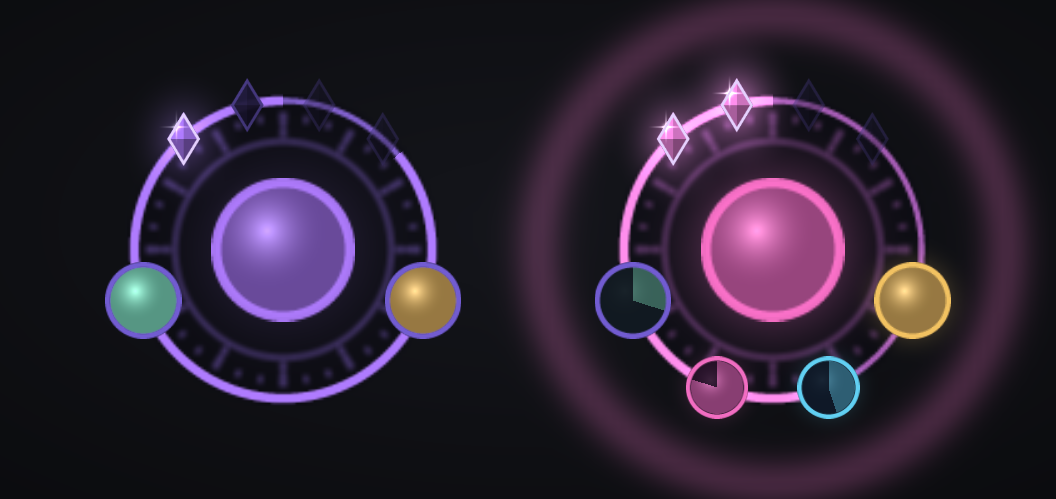
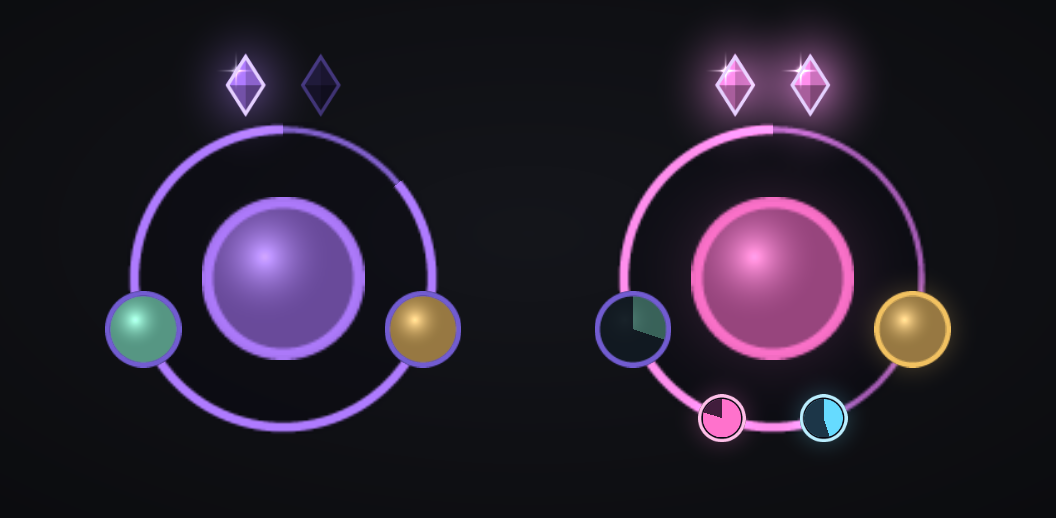
Arcanum 0.8.0 : review design du cercle
- Cristaux : un par charge visée, au-dessus du cercle ; un de plus
  quand le jeu offre une charge.
- Procs en orbes de couleur, sans icône.
- Icône centrale agrandie ; ondes plus petites et plus rares.
- Halo derrière le cercle, runes et leur réglage retirés.

diff --git a/tools/preview.py b/tools/preview.py
@@ -15,7 +15,7 @@ MEDIA = os.path.join(ROOT, "Arcanum", "Media")
 OUT = os.path.join(ROOT, "docs", "apercu.png")
 
 K = 2.4                      # échelle du rendu
-W, H = int(440 * K), int(208 * K)
+W, H = int(440 * K), int(216 * K)
 
 C = dict(
     ink=(0.030, 0.024, 0.066), socket=(0.130, 0.108, 0.240), edge=(0.470, 0.380, 0.860),
@@ -162,8 +162,8 @@ def round_icon(cx, cy, size, tint, ring, glow=0.0, cooldown=0.0):
     blit("circle-edge", cx, cy, size + 4, size + 4, ring, 0.95)
 
 
-def hud(cx, cy, stacks, target, reason, tint, window, cooldowns, procs=(), spin=0.0):
-    """Le cercle runique tel que le dispose UI/Hud.lua."""
+def hud(cx, cy, stacks, target, reason, tint, window, cooldowns, procs=()):
+    """Le cercle tel que le dispose UI/Hud.lua."""
     R = 62
     S = R / 0.465
     urgent = reason is not C["arcane"]
@@ -171,48 +171,49 @@ def hud(cx, cy, stacks, target, reason, tint, window, cooldowns, procs=(), spin=
     col = C["hot"] if full else C["arcane"]
     line = mix(C["edge"], reason, 0.55)
 
-    def on_ring(angle):
+    def on_ring(angle, radius=R):
         a = math.radians(angle)
-        return cx + R * math.cos(a), cy - R * math.sin(a)
+        return cx + radius * math.cos(a), cy - radius * math.sin(a)
 
     blit("circle", cx, cy, 2 * R + 6, 2 * R + 6, C["ink"], 0.34)
-    blit("glow", cx, cy, R * 2.1, R * 2.1, reason, 0.34 if urgent else 0.14, add=True)
-    blit("runes", cx, cy, S, S, line, 0.34, rot=-spin)
     blit("ring", cx, cy, S, S, line, 0.85)
     if stacks > 0:
         blit("arc", cx, cy, S, S, col, 1, sweep=window)
-    round_icon(cx, cy, 56, tint, reason, glow=0.42 if urgent else 0.16)
-    # charges, en haut de l'anneau
-    for i, angle in enumerate((132, 104, 76, 48)):
-        x, y = on_ring(angle)
+    round_icon(cx, cy, 64, tint, reason, glow=0.35 if urgent else 0.0)
+    # un cristal par charge visée (un de plus quand le jeu en offre une), au-dessus du cercle
+    shown = min(4, max(target, stacks))
+    for i in range(shown):
+        x, y = on_ring(90 + ((shown + 1) / 2 - (i + 1)) * 22, R + 20)
         on = i < stacks
-        aim = 1.0 if i < target else 0.35
         pulse = (0.5 + 0.5 * math.sin(i * 0.9)) if full else 0
         if on:
-            blit("glow", x, y, 18 * 3 * (1 + 0.1 * pulse), 24 * 2.6 * (1 + 0.1 * pulse), col, 0.40 + 0.32 * pulse, add=True)
-        blit("diamond", x, y, 18, 24, C["socket"], 0.95 * (1 if on else aim))
+            blit("glow", x, y, 22 * 3 * (1 + 0.1 * pulse), 28 * 2.6 * (1 + 0.1 * pulse), col, 0.40 + 0.32 * pulse, add=True)
+        blit("diamond", x, y, 22, 28, C["socket"], 0.95)
         if on:
-            blit("diamond", x, y, 18, 24, col, 1)
-            blit("spark", x - 3, y - 5, 16, 16, C["white"], 0.5 + 0.45 * pulse, add=True)
-        blit("diamond-edge", x, y, 18, 24, C["arcaneHi"] if on else C["edge"], 1 if on else 0.45 * aim)
+            blit("diamond", x, y, 22, 28, col, 1)
+            blit("spark", x - 4, y - 6, 18, 18, C["white"], 0.5 + 0.45 * pulse, add=True)
+        blit("diamond-edge", x, y, 22, 28, C["arcaneHi"] if on else C["edge"], 1 if on else 0.45)
     # gros temps de recharge, sertis à gauche et à droite
     for angle, (ctint, active, cooldown) in zip((200, 340), cooldowns):
         x, y = on_ring(angle)
         round_icon(x, y, 28, ctint, active or C["edge"], glow=0.7 if active else 0.0, cooldown=cooldown)
-    # gemmes de proc, en bas
-    for angle, (pcol, left) in zip((248, 292), procs):
+    # orbes de proc, en bas : la couleur seule
+    for angle, (pcol, left) in zip((250, 290), procs):
         if pcol:
             x, y = on_ring(angle)
-            round_icon(x, y, 22, pcol, pcol, glow=0.5, cooldown=1 - left)
+            blit("glow", x, y, 16 * 2.6, 16 * 2.6, pcol, 0.45, add=True)
+            blit("circle", x, y, 20, 20, C["ink"], 0.96)
+            blit("circle", x, y, 16, 16, pcol, 1)
+            blit("circle", x, y, 16, 16, (0.02, 0.01, 0.06), 0.76, sweep=1 - left)
+            blit("circle-edge", x, y, 20, 20, mix(pcol, C["white"], 0.55), 1)
 
 
 def main():
     background()
     # à gauche : cycle normal (Déflagration, 1 charge sur 2 visées) ; à droite : Barrage de projectiles
-    hud(118, 104, 1, 2, C["arcane"], C["arcane"], 0.86,
+    hud(118, 116, 1, 2, C["arcane"], C["arcane"], 0.86,
         [(C["pom"], None, 0.0), (C["power"], None, 0.0)])
-    blit("halo", 322, 104, 250, 250, C["barrage"], 0.22, add=True)
-    hud(322, 104, 2, 2, C["barrage"], C["barrage"], 0.55,
+    hud(322, 116, 2, 2, C["barrage"], C["barrage"], 0.55,
         [(C["pom"], None, 0.7), (C["power"], C["power"], 0.0)],
         procs=((C["barrage"], 0.8), (C["clear"], 0.45)))
 

diff --git a/tools/test/run_tests.py b/tools/test/run_tests.py
@@ -332,6 +332,8 @@ def main():
     t.M.advance(0.3)
     t.fight()
     check(t.next() == ("blast", "arcane"), "0 charge : Déflagration")
+    t.M.advance(0.2)
+    check(len([f for f in t.ns.Hud.crystals.values() if f._shown]) == 2, "2 charges visées : deux cristaux affichés, pas quatre")
     t.cast(AB)
     check(t.next() == ("blast", "arcane"), "1 charge : Déflagration")
     t.M.startCast(AB, 1.5)
@@ -394,6 +396,8 @@ def main():
     check(t.next() == ("blast", "clear"), "Idées claires : Déflagration gratuite, même au-delà des charges visées")
     t.cast(AB)
     check(t.S.stacks == 4 and t.next() == ("frostbolt", "arcane"), "charges offertes : toujours l'Éclair de givre")
+    t.M.advance(0.3)
+    check(len([f for f in t.ns.Hud.crystals.values() if f._shown]) == 4, "charges offertes : un cristal par charge")
     t.M.advance(6.0)
     check(t.next() == ("wrath", "arcane"), "Courroux de nouveau prêt : Courroux")
     t.M.advance(12)
@@ -707,12 +711,6 @@ def main():
     for key in ("showCharges", "showProcs", "showCooldowns", "showMana", "enabled", "enabled"):
         d.run('Mock.ns.Set("%s", not Mock.ns.db.%s)' % (key, key))
         d.M.advance(0.2)
-    spinners = list(d.M.spinners.values())
-    check(len(spinners) == 1 and not spinners[0].playing, "runes immobiles d'origine")
-    d.run('Mock.ns.Set("spin", true)')
-    check(spinners[0].playing, "réglage « runes qui tournent » : animation du moteur lancée")
-    d.run('Mock.ns.Set("spin", false)')
-    check(not spinners[0].playing, "réglage coupé : animation arrêtée")
     d.run('SlashCmdList.ARCANUM("diag")')
     report = d.M.named["ArcanumDiag"].text
     check("Déflagration des Arcanes" in report and "JOURNAL" in report, "/arc diag produit le rapport")

diff --git a/tools/make_media.py b/tools/make_media.py
@@ -171,8 +171,7 @@ def near(angle, count, half_width):
 
 
 def make_runic():
-    """Cercle runique : anneau, graduations runiques, bande du minuteur (découpée en arc par un widget
-    Cooldown), bord des icônes rondes.
+    """Cercle : anneau, bande du minuteur (découpée en arc par un widget Cooldown), bord des icônes rondes.
 
     Ces textures tournent en jeu. Elles sont donc dessinées à leur taille d'affichage (128 px pour
     133 px à l'écran) et aucun trait ne fait moins de 2 px : une texture plus grande, réduite par le jeu,
@@ -181,19 +180,6 @@ def make_runic():
     polar_tex("ring", S, lambda r, a, u, v: 0.456 <= r <= 0.474, ss=4)
     polar_tex("arc", S, lambda r, a, u, v: 0.451 <= r <= 0.479, ss=4)
     polar_tex("circle-edge", 64, lambda r, a, u, v: 0.43 <= r <= 0.5, ss=4)
-
-    def runes(r, a, u, v):
-        if 0.400 <= r <= 0.424 and near(a, 36, 0.020):      # graduations fines (2 px)
-            return True
-        if 0.380 <= r <= 0.430 and near(a, 12, 0.027):      # graduations longues (2,7 px)
-            return True
-        if 0.330 <= r <= 0.346:                             # filet intérieur (2 px)
-            return True
-        # petits losanges entre les graduations longues
-        step = 2 * math.pi / 12
-        d = ((a + math.pi + step / 2) % step) - step / 2
-        return abs(r - 0.365) / 0.020 + abs(d * r) / 0.014 <= 1
-    polar_tex("runes", S, runes, ss=4, soft=True)
 
 
 def main():

diff --git a/README.md b/README.md
@@ -1,19 +1,18 @@
 # Arcanum
 
-Le HUD du mage Arcanes pour World of Warcraft: Forever : un cercle runique qui dit quel sort lancer ensuite.
+Le HUD du mage Arcanes pour World of Warcraft: Forever : un cercle qui dit quel sort lancer ensuite.
 
-Arcanum affiche sous ton personnage un cercle runique, avec au centre le prochain sort à lancer :
+Arcanum affiche sous ton personnage un cercle, avec au centre le prochain sort à lancer :
 
 ![Aperçu du HUD d'Arcanum](docs/apercu.png)
 
 *Aperçu composé avec les textures de l'addon (les icônes de sorts sont remplacées par des aplats). À gauche le cycle normal, à droite un Barrage de projectiles. En jeu : `/arc demo`.*
 
-- **Au centre** : le sort à lancer ensuite. Sa couleur, qui gagne tout l'anneau, dit pourquoi : violet pour le cycle normal, rose pour un Barrage de projectiles, bleu clair pour des Idées claires, or pour les gros dégâts (Eureka, Présence spirituelle, Courroux instantané), bleu pour le mana (gemme, Évocation, sort moins cher, baguette). Pendant une incantation il ne change pas : il se découvre à mesure que le sort part, puis passe au suivant (une option permet au contraire d'anticiper).
-- **L'anneau** : gravé de runes discrètes, il prend la couleur du conseil. Un réglage les fait tourner lentement.
-- **En haut de l'anneau, quatre cristaux** : tes charges de Déflagration des Arcanes. Ceux des charges visées sont nets, les autres en retrait ; ils pulsent quand la cible est atteinte.
+- **Au centre** : le sort à lancer ensuite. Sa couleur, reprise par l'anneau, dit pourquoi : violet pour le cycle normal, rose pour un Barrage de projectiles, bleu clair pour des Idées claires, or pour les gros dégâts (Eureka, Présence spirituelle, Courroux instantané), bleu pour le mana (gemme, Évocation, sort moins cher, baguette), orange en multi-cibles. Pendant une incantation il ne change pas : un voile se retire à mesure que le sort part, puis il passe au suivant (une option permet au contraire d'anticiper).
+- **Au-dessus du cercle, les cristaux** : un par charge de Déflagration des Arcanes visée (deux par défaut). Ils pulsent quand la cible est atteinte ; un cristal de plus apparaît quand le jeu t'offre une charge.
 - **L'arc lumineux autour de l'anneau** : les 18 secondes de la fenêtre des charges, qui se vide.
-- **À gauche et à droite, sertis dans l'anneau** : tes gros temps de recharge (Présence spirituelle, Eureka du gnome, Pouvoir des Arcanes, Berserker ou Fureur sanguinaire, selon ce que ton personnage connaît).
-- **En bas de l'anneau** : une gemme par proc actif, rose pour le Barrage de projectiles, bleu clair pour les Idées claires, avec un voile qui grandit à mesure que le proc s'épuise.
+- **À gauche et à droite, sertis dans l'anneau** : tes gros temps de recharge, avec leur icône (Présence spirituelle, Eureka du gnome, Pouvoir des Arcanes, Berserker ou Fureur sanguinaire, selon ce que ton personnage connaît).
+- **En bas de l'anneau** : un orbe de couleur par proc actif, rose pour le Barrage de projectiles, bleu clair pour les Idées claires, avec un voile qui grandit à mesure que le proc s'épuise.
 - **Sous le cercle, hors combat** : ce qu'il manque avant d'engager (Intelligence des Arcanes, armure, gemme de mana).
 - **L'icône rougit** quand la cible est hors de portée du sort conseillé.
 - En option : une barre de mana.

diff --git a/CHANGELOG.md b/CHANGELOG.md
@@ -1,5 +1,17 @@
 # Historique d'Arcanum
 
+## 0.8.0 — 12 novembre 2026
+
+Review design : chaque élément a dû justifier sa place.
+
+- Cristaux : un par charge visée seulement (deux par défaut), au-dessus du cercle et un peu plus grands. Un cristal de plus apparaît quand le jeu offre une charge. Fini les cristaux éteints en permanence, et l'arc de la fenêtre n'est plus brouillé par eux.
+- Procs : des orbes de couleur sans icône, pour ne plus les confondre avec les temps de recharge.
+- Icône centrale agrandie (64 au lieu de 56).
+- Ondes plus petites, et plus aucune quand les charges visées sont atteintes (les cristaux bondissent déjà).
+- Retirés : le halo derrière le cercle, les runes gravées et leur réglage.
+
+Des textures ont changé : quitte et relance le jeu après la mise à jour.
+
 ## 0.7.2 — 12 novembre 2026
 
 - Idées claires pendant une incantation : si le proc arrive pendant un Éclair de givre ou une Boule de feu, c'est ce sort bon marché qui le dépenserait. Arcanum conseille alors d'interrompre : l'icône passe à la Déflagration, en bleu clair, avec un bord blanc qui bat vite. Rien ne change pour un Barrage de projectiles (il attend la fin du sort), ni quand il reste moins d'une demi-seconde d'incantation. Réglable.
